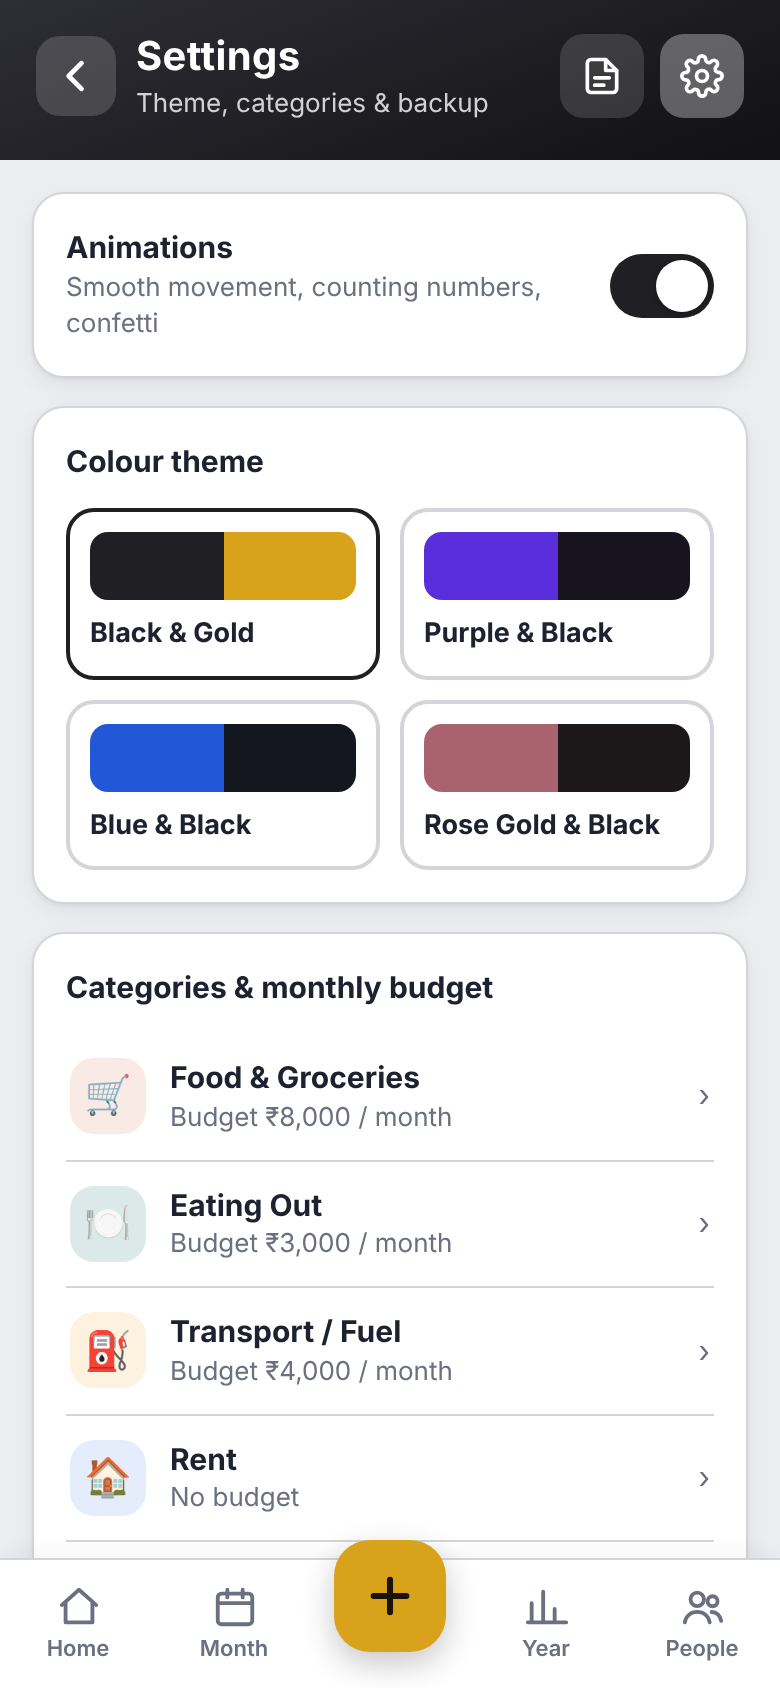
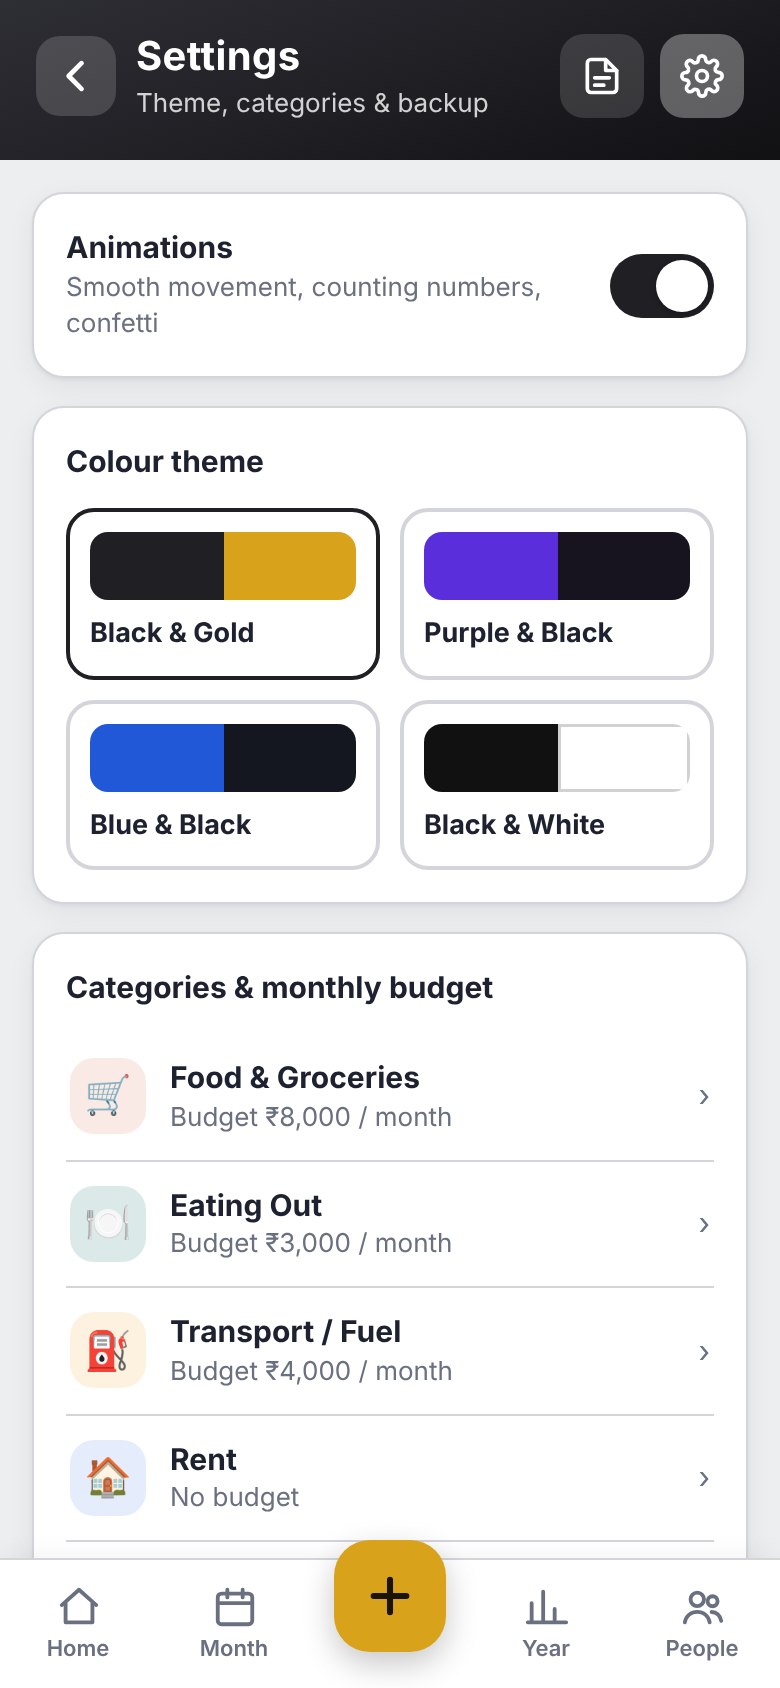
Themes: replace Rose Gold & Black with Black & White

Changed region(s): [[0.5231, 0.4313, 0.8923, 0.4929]]

diff --git a/index.html b/index.html
@@ -16,10 +16,10 @@
 <style>
 /* ---- colour themes: P = main colour, PD = main colour in dark mode, A = accent, T = third, H1/H2 = header ---- */
 [data-theme="gold"]  {--P:#1F1F24;--PD:#E2B64B;--A:#D9A21B;--T:#2F9E6E;--H1:#2E2E35;--H2:#111114;--onP:#fff;--onPD:#1A1406;--onA:#1A1406}
-/* Purple / Blue / Rose Gold: main colour first, black second. AD/onAD = second colour in dark mode (the screen is already black, so a stronger shade of the main colour is used) */
+/* Purple / Blue: main colour first, black second. Black & White: black in light mode, white in dark mode. AD/onAD = second colour in dark mode (the screen is already black, so a stronger shade of the main colour is used) */
 [data-theme="purple"]{--P:#5B2EDB;--PD:#B69CFF;--A:#17141F;--AD:#8B5CF6;--T:#2F9E6E;--H1:#6D3FE0;--H2:#3B1A94;--onP:#fff;--onPD:#1A1033;--onA:#fff;--onAD:#fff}
 [data-theme="blue"]  {--P:#2058D8;--PD:#8DB8FF;--A:#14171F;--AD:#3B82F6;--T:#2F9E6E;--H1:#2E6BEA;--H2:#173A8C;--onP:#fff;--onPD:#0A1830;--onA:#fff;--onAD:#fff}
-[data-theme="rose"]  {--P:#A8636E;--PD:#F0B8B4;--A:#1C1718;--AD:#D0868F;--T:#2F9E6E;--H1:#BE7E82;--H2:#7E4652;--onP:#fff;--onPD:#2A1418;--onA:#fff;--onAD:#1C1718}
+[data-theme="mono"]  {--P:#111111;--PD:#F2F2F2;--A:#000000;--AD:#FFFFFF;--T:#2F9E6E;--H1:#2B2B2B;--H2:#000000;--onP:#fff;--onPD:#111111;--onA:#fff;--onAD:#000000}
 :root{
   --bg:#F5F6F8; --card:#FFFFFF; --text:#1E2230; --muted:#6B7080; --line:#E7E8EE;
   --pri:var(--P); --on-pri:var(--onP); --acc:var(--A); --on-acc:var(--onA); --third:var(--T); --big:var(--H2);
@@ -425,7 +425,7 @@ const THEMES = {
   gold:   {name:"Black & Gold",      c:["#1F1F24","#D9A21B"], bar:"#111114"},
   purple: {name:"Purple & Black",    c:["#5B2EDB","#17141F"], bar:"#3B1A94"},
   blue:   {name:"Blue & Black",      c:["#2058D8","#14171F"], bar:"#173A8C"},
-  rose:   {name:"Rose Gold & Black", c:["#A8636E","#1C1718"], bar:"#7E4652"}
+  mono:   {name:"Black & White",     c:["#111111","#FFFFFF"], bar:"#000000"}
 };
 function applyTheme(){
   const t = THEMES[D.settings.theme] ? D.settings.theme : DEFAULT_THEME;
@@ -863,7 +863,7 @@ function settingsView(){
   let h = `<div class="card"><div class="row between"><div><b>Animations</b><div class="small muted">Smooth movement, counting numbers, confetti</div></div>
     <button class="switch2 ${D.settings.anim!==false?"on":""}" data-act="toggleAnim" role="switch" aria-checked="${D.settings.anim!==false}" aria-label="Animations"></button></div></div>`;
   h += `<div class="card"><h2>Colour theme</h2><div class="themes">${Object.entries(THEMES).map(([id,t])=>
-    `<button class="th ${D.settings.theme===id?"on":""}" data-act="theme" data-id="${id}"><div class="sw2"><i style="background:${t.c[0]}"></i><i style="background:${t.c[1]}"></i></div>${esc(t.name)}</button>`).join("")}</div></div>`;
+    `<button class="th ${D.settings.theme===id?"on":""}" data-act="theme" data-id="${id}"><div class="sw2"><i style="background:${t.c[0]}"></i><i style="background:${t.c[1]}${t.c[1]==="#FFFFFF"?";box-shadow:inset 0 0 0 1.5px rgba(0,0,0,.18)":""}"></i></div>${esc(t.name)}</button>`).join("")}</div></div>`;
   h += `<div class="card"><h2>Categories & monthly budget</h2>`;
   D.categories.forEach(c=>{
     h += `<button class="srow" data-act="editCat" data-id="${c.id}"><div class="ico" style="background:${hexA(c.color,.16)}">${esc(c.icon)}</div>

diff --git a/sw.js b/sw.js
@@ -1,6 +1,6 @@
 // Offline support: keeps a copy of the app files on the device.
 // Your expense data is NOT here — it lives only in the app's local storage.
-const CACHE = "expense-app-v17";
+const CACHE = "expense-app-v18";
 const FILES = [
   "./",
   "./index.html",

diff --git a/README.md b/README.md
@@ -81,7 +81,7 @@
 - Saves while you type. Pin, search, share and delete notes.
 
 ### 🎨 Look & feel
-- 4 colour themes: **Black & Gold** (default), **Purple & Black**, **Blue & Black** and **Rose Gold & Black**.
+- 4 colour themes: **Black & Gold** (default), **Purple & Black**, **Blue & Black** and **Black & White**.
 - Automatic **dark mode**.
 - Smooth animations: counting numbers, growing charts, confetti when you settle up. You can switch them off.
 
@@ -119,7 +119,7 @@
   <tr>
     <td align="center"><img src="screenshots/theme-purple.png" width="200"><br><sub>Purple & Black</sub></td>
     <td align="center"><img src="screenshots/theme-blue.png" width="200"><br><sub>Blue & Black</sub></td>
-    <td align="center"><img src="screenshots/theme-rose.png" width="200"><br><sub>Rose Gold & Black</sub></td>
+    <td align="center"><img src="screenshots/theme-mono.png" width="200"><br><sub>Black & White</sub></td>
   </tr>
   <tr>
     <td align="center"><img src="screenshots/theme-purple-dark.png" width="200"><br><sub>Purple & Black (dark mode)</sub></td>
